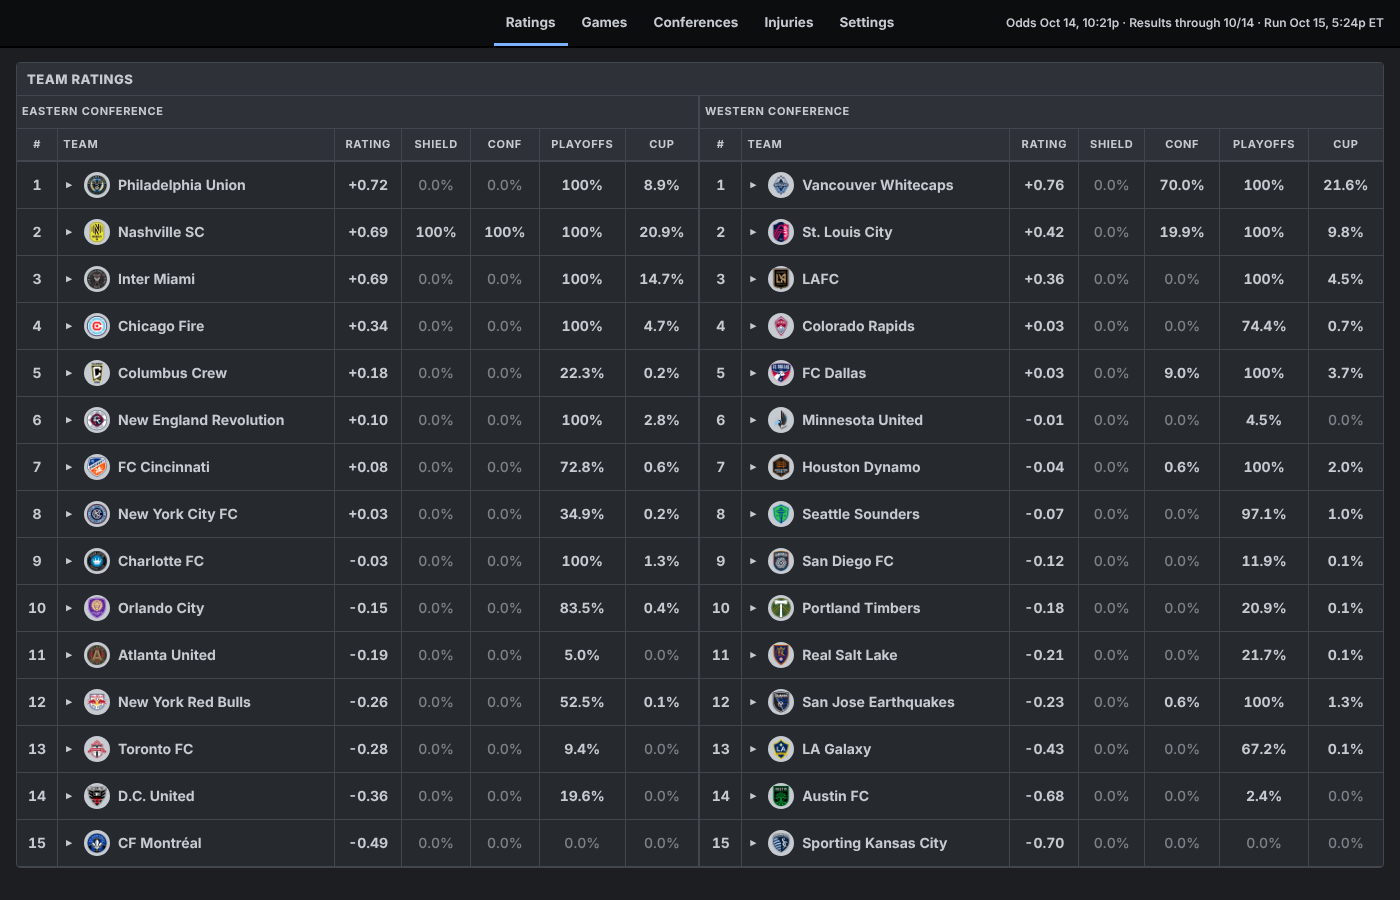
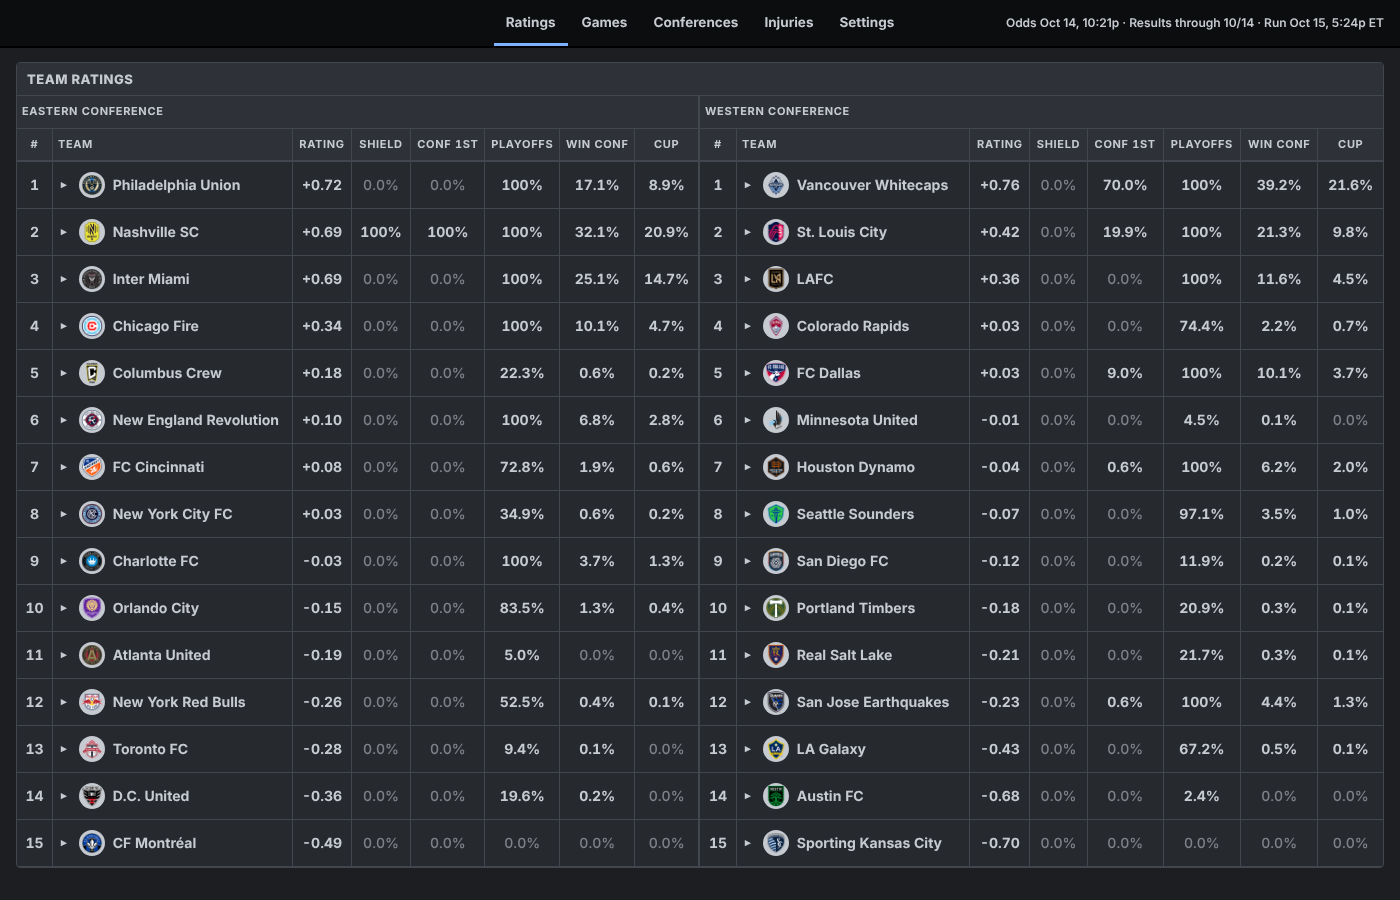
Ratings tab: Win conf column (conference champion) beside Conf 1st; republished (v14)

diff --git a/outputs/latest/site.html b/outputs/latest/site.html
@@ -235,12 +235,12 @@ function renderRatings(){
  const op=D.header.opta;
  $('#rtSub').textContent='';
  const tbl=(list,label)=>{const rows=[...list].sort((a,b)=>(preview?preview.ratings[b.team]:b.rating)-(preview?preview.ratings[a.team]:a.rating));
-  let h=`<thead><tr><th colspan="7" class="l">${label}</th></tr><tr><th>#</th><th class="l">Team</th><th title="strength in goals of expected margin v a league-average side, neutral pitch">Rating</th><th title="Supporters' Shield: most regular-season points, league-wide">Shield</th><th title="regular-season conference winner (top seed)">Conf</th><th title="top nine in the conference">Playoffs</th><th title="MLS Cup winner">Cup</th></tr></thead><tbody>`;
+  let h=`<thead><tr><th colspan="8" class="l">${label}</th></tr><tr><th>#</th><th class="l">Team</th><th title="strength in goals of expected margin v a league-average side, neutral pitch">Rating</th><th title="Supporters' Shield: most regular-season points, league-wide">Shield</th><th title="regular-season conference winner (top seed)">Conf 1st</th><th title="top nine in the conference">Playoffs</th><th title="conference champion: wins the conference bracket and reaches MLS Cup">Win conf</th><th title="MLS Cup winner">Cup</th></tr></thead><tbody>`;
   rows.forEach((t,k)=>{const r=preview?preview.ratings[t.team]:t.rating;const P=preview?preview.pools:null;
    const cell=(nm,key)=>{const base=pool(nm,t.team);const v=P?P[key][t.team]:base;return `<td class="num">${fmtPct(v)}${P?delta(v,base):''}</td>`};
-   h+=`<tr class="team-row"><td>${k+1}</td><td class="team"><span class="chev">▸</span> ${tm(t)}</td><td class="num">${sgn(r)}${preview?delta(r,t.rating,1,2):''}</td>${cell('shield','sh')}${cell(confPool(t),'cw')}${cell('playoffs','po')}${cell('cup','cup')}</tr>`;
+   h+=`<tr class="team-row"><td>${k+1}</td><td class="team"><span class="chev">▸</span> ${tm(t)}</td><td class="num">${sgn(r)}${preview?delta(r,t.rating,1,2):''}</td>${cell('shield','sh')}${cell(confPool(t),'cw')}${cell('playoffs','po')}${cell('cup_finalist','fin')}${cell('cup','cup')}</tr>`;
    const s=t.sources||{};
-   h+=`<tr class="detail" hidden><td colspan="7"><div class="det"><table class="mini"><thead><tr><th>Blend</th><th title="weighted least squares on Pinnacle's closing lines">Market</th><th title="ASA match xG, rescaled to the market's spread">xG</th><th title="Opta Power Rankings, rescaled; sanity anchor, never weighted">Opta</th><th title="blend minus Opta">Gap v Opta</th><th>Closes in fit</th><th title="this club's home edge on top of the league's">Home edge</th></tr></thead><tbody><tr><td>${sgn(t.rating)}</td><td>${s.market_recent==null?'–':sgn(s.market_recent)}</td><td>${s.xg==null?'–':sgn(s.xg)}</td><td>${t.opta==null?'–':sgn(t.opta)}</td><td>${t.opta==null?'–':sgn(t.rating-t.opta)}</td><td>${t.n_closes}</td><td>${t.home_delta==null?'–':sgn(t.home_delta)}</td></tr></tbody></table>${t.note?`<div class="note">${t.note}</div>`:''}</div></td></tr>`});
+   h+=`<tr class="detail" hidden><td colspan="8"><div class="det"><table class="mini"><thead><tr><th>Blend</th><th title="weighted least squares on Pinnacle's closing lines">Market</th><th title="ASA match xG, rescaled to the market's spread">xG</th><th title="Opta Power Rankings, rescaled; sanity anchor, never weighted">Opta</th><th title="blend minus Opta">Gap v Opta</th><th>Closes in fit</th><th title="this club's home edge on top of the league's">Home edge</th></tr></thead><tbody><tr><td>${sgn(t.rating)}</td><td>${s.market_recent==null?'–':sgn(s.market_recent)}</td><td>${s.xg==null?'–':sgn(s.xg)}</td><td>${t.opta==null?'–':sgn(t.opta)}</td><td>${t.opta==null?'–':sgn(t.rating-t.opta)}</td><td>${t.n_closes}</td><td>${t.home_delta==null?'–':sgn(t.home_delta)}</td></tr></tbody></table>${t.note?`<div class="note">${t.note}</div>`:''}</div></td></tr>`});
   return h+'</tbody>'};
  $('#ratingEast').innerHTML=tbl(east,'Eastern Conference');$('#ratingWest').innerHTML=tbl(west,'Western Conference');
  toggleDetail($('#ratingEast'));toggleDetail($('#ratingWest'))}

diff --git a/outputs/latest/site_local.html b/outputs/latest/site_local.html
@@ -235,12 +235,12 @@ function renderRatings(){
  const op=D.header.opta;
  $('#rtSub').textContent='';
  const tbl=(list,label)=>{const rows=[...list].sort((a,b)=>(preview?preview.ratings[b.team]:b.rating)-(preview?preview.ratings[a.team]:a.rating));
-  let h=`<thead><tr><th colspan="7" class="l">${label}</th></tr><tr><th>#</th><th class="l">Team</th><th title="strength in goals of expected margin v a league-average side, neutral pitch">Rating</th><th title="Supporters' Shield: most regular-season points, league-wide">Shield</th><th title="regular-season conference winner (top seed)">Conf</th><th title="top nine in the conference">Playoffs</th><th title="MLS Cup winner">Cup</th></tr></thead><tbody>`;
+  let h=`<thead><tr><th colspan="8" class="l">${label}</th></tr><tr><th>#</th><th class="l">Team</th><th title="strength in goals of expected margin v a league-average side, neutral pitch">Rating</th><th title="Supporters' Shield: most regular-season points, league-wide">Shield</th><th title="regular-season conference winner (top seed)">Conf 1st</th><th title="top nine in the conference">Playoffs</th><th title="conference champion: wins the conference bracket and reaches MLS Cup">Win conf</th><th title="MLS Cup winner">Cup</th></tr></thead><tbody>`;
   rows.forEach((t,k)=>{const r=preview?preview.ratings[t.team]:t.rating;const P=preview?preview.pools:null;
    const cell=(nm,key)=>{const base=pool(nm,t.team);const v=P?P[key][t.team]:base;return `<td class="num">${fmtPct(v)}${P?delta(v,base):''}</td>`};
-   h+=`<tr class="team-row"><td>${k+1}</td><td class="team"><span class="chev">▸</span> ${tm(t)}</td><td class="num">${sgn(r)}${preview?delta(r,t.rating,1,2):''}</td>${cell('shield','sh')}${cell(confPool(t),'cw')}${cell('playoffs','po')}${cell('cup','cup')}</tr>`;
+   h+=`<tr class="team-row"><td>${k+1}</td><td class="team"><span class="chev">▸</span> ${tm(t)}</td><td class="num">${sgn(r)}${preview?delta(r,t.rating,1,2):''}</td>${cell('shield','sh')}${cell(confPool(t),'cw')}${cell('playoffs','po')}${cell('cup_finalist','fin')}${cell('cup','cup')}</tr>`;
    const s=t.sources||{};
-   h+=`<tr class="detail" hidden><td colspan="7"><div class="det"><table class="mini"><thead><tr><th>Blend</th><th title="weighted least squares on Pinnacle's closing lines">Market</th><th title="ASA match xG, rescaled to the market's spread">xG</th><th title="Opta Power Rankings, rescaled; sanity anchor, never weighted">Opta</th><th title="blend minus Opta">Gap v Opta</th><th>Closes in fit</th><th title="this club's home edge on top of the league's">Home edge</th></tr></thead><tbody><tr><td>${sgn(t.rating)}</td><td>${s.market_recent==null?'–':sgn(s.market_recent)}</td><td>${s.xg==null?'–':sgn(s.xg)}</td><td>${t.opta==null?'–':sgn(t.opta)}</td><td>${t.opta==null?'–':sgn(t.rating-t.opta)}</td><td>${t.n_closes}</td><td>${t.home_delta==null?'–':sgn(t.home_delta)}</td></tr></tbody></table>${t.note?`<div class="note">${t.note}</div>`:''}</div></td></tr>`});
+   h+=`<tr class="detail" hidden><td colspan="8"><div class="det"><table class="mini"><thead><tr><th>Blend</th><th title="weighted least squares on Pinnacle's closing lines">Market</th><th title="ASA match xG, rescaled to the market's spread">xG</th><th title="Opta Power Rankings, rescaled; sanity anchor, never weighted">Opta</th><th title="blend minus Opta">Gap v Opta</th><th>Closes in fit</th><th title="this club's home edge on top of the league's">Home edge</th></tr></thead><tbody><tr><td>${sgn(t.rating)}</td><td>${s.market_recent==null?'–':sgn(s.market_recent)}</td><td>${s.xg==null?'–':sgn(s.xg)}</td><td>${t.opta==null?'–':sgn(t.opta)}</td><td>${t.opta==null?'–':sgn(t.rating-t.opta)}</td><td>${t.n_closes}</td><td>${t.home_delta==null?'–':sgn(t.home_delta)}</td></tr></tbody></table>${t.note?`<div class="note">${t.note}</div>`:''}</div></td></tr>`});
   return h+'</tbody>'};
  $('#ratingEast').innerHTML=tbl(east,'Eastern Conference');$('#ratingWest').innerHTML=tbl(west,'Western Conference');
  toggleDetail($('#ratingEast'));toggleDetail($('#ratingWest'))}

diff --git a/site/index.html b/site/index.html
@@ -235,12 +235,12 @@ function renderRatings(){
  const op=D.header.opta;
  $('#rtSub').textContent='';
  const tbl=(list,label)=>{const rows=[...list].sort((a,b)=>(preview?preview.ratings[b.team]:b.rating)-(preview?preview.ratings[a.team]:a.rating));
-  let h=`<thead><tr><th colspan="7" class="l">${label}</th></tr><tr><th>#</th><th class="l">Team</th><th title="strength in goals of expected margin v a league-average side, neutral pitch">Rating</th><th title="Supporters' Shield: most regular-season points, league-wide">Shield</th><th title="regular-season conference winner (top seed)">Conf</th><th title="top nine in the conference">Playoffs</th><th title="MLS Cup winner">Cup</th></tr></thead><tbody>`;
+  let h=`<thead><tr><th colspan="8" class="l">${label}</th></tr><tr><th>#</th><th class="l">Team</th><th title="strength in goals of expected margin v a league-average side, neutral pitch">Rating</th><th title="Supporters' Shield: most regular-season points, league-wide">Shield</th><th title="regular-season conference winner (top seed)">Conf 1st</th><th title="top nine in the conference">Playoffs</th><th title="conference champion: wins the conference bracket and reaches MLS Cup">Win conf</th><th title="MLS Cup winner">Cup</th></tr></thead><tbody>`;
   rows.forEach((t,k)=>{const r=preview?preview.ratings[t.team]:t.rating;const P=preview?preview.pools:null;
    const cell=(nm,key)=>{const base=pool(nm,t.team);const v=P?P[key][t.team]:base;return `<td class="num">${fmtPct(v)}${P?delta(v,base):''}</td>`};
-   h+=`<tr class="team-row"><td>${k+1}</td><td class="team"><span class="chev">▸</span> ${tm(t)}</td><td class="num">${sgn(r)}${preview?delta(r,t.rating,1,2):''}</td>${cell('shield','sh')}${cell(confPool(t),'cw')}${cell('playoffs','po')}${cell('cup','cup')}</tr>`;
+   h+=`<tr class="team-row"><td>${k+1}</td><td class="team"><span class="chev">▸</span> ${tm(t)}</td><td class="num">${sgn(r)}${preview?delta(r,t.rating,1,2):''}</td>${cell('shield','sh')}${cell(confPool(t),'cw')}${cell('playoffs','po')}${cell('cup_finalist','fin')}${cell('cup','cup')}</tr>`;
    const s=t.sources||{};
-   h+=`<tr class="detail" hidden><td colspan="7"><div class="det"><table class="mini"><thead><tr><th>Blend</th><th title="weighted least squares on Pinnacle's closing lines">Market</th><th title="ASA match xG, rescaled to the market's spread">xG</th><th title="Opta Power Rankings, rescaled; sanity anchor, never weighted">Opta</th><th title="blend minus Opta">Gap v Opta</th><th>Closes in fit</th><th title="this club's home edge on top of the league's">Home edge</th></tr></thead><tbody><tr><td>${sgn(t.rating)}</td><td>${s.market_recent==null?'–':sgn(s.market_recent)}</td><td>${s.xg==null?'–':sgn(s.xg)}</td><td>${t.opta==null?'–':sgn(t.opta)}</td><td>${t.opta==null?'–':sgn(t.rating-t.opta)}</td><td>${t.n_closes}</td><td>${t.home_delta==null?'–':sgn(t.home_delta)}</td></tr></tbody></table>${t.note?`<div class="note">${t.note}</div>`:''}</div></td></tr>`});
+   h+=`<tr class="detail" hidden><td colspan="8"><div class="det"><table class="mini"><thead><tr><th>Blend</th><th title="weighted least squares on Pinnacle's closing lines">Market</th><th title="ASA match xG, rescaled to the market's spread">xG</th><th title="Opta Power Rankings, rescaled; sanity anchor, never weighted">Opta</th><th title="blend minus Opta">Gap v Opta</th><th>Closes in fit</th><th title="this club's home edge on top of the league's">Home edge</th></tr></thead><tbody><tr><td>${sgn(t.rating)}</td><td>${s.market_recent==null?'–':sgn(s.market_recent)}</td><td>${s.xg==null?'–':sgn(s.xg)}</td><td>${t.opta==null?'–':sgn(t.opta)}</td><td>${t.opta==null?'–':sgn(t.rating-t.opta)}</td><td>${t.n_closes}</td><td>${t.home_delta==null?'–':sgn(t.home_delta)}</td></tr></tbody></table>${t.note?`<div class="note">${t.note}</div>`:''}</div></td></tr>`});
   return h+'</tbody>'};
  $('#ratingEast').innerHTML=tbl(east,'Eastern Conference');$('#ratingWest').innerHTML=tbl(west,'Western Conference');
  toggleDetail($('#ratingEast'));toggleDetail($('#ratingWest'))}

diff --git a/CLAUDE.md b/CLAUDE.md
@@ -229,7 +229,7 @@ Page changes 2026-10-15 night (Zac): **Scenarios tab removed** (and the embedded
 **crests embedded** as 96 px data URIs from `data/logos/<code>.png` (fetched once from the ESPN URLs in `data/logos.csv`; the
 published page cannot rely on external images, which is why letters showed); the Games detail row shows **EV% at Pinnacle's
 price** per outcome (model probability x Pinnacle decimal price - 1); the Ratings header line (run date, Opta anchor) removed;
-the Shaded/Raw toggle is hidden while no shade is applied. `check_site.py` no longer checks a Scenarios tab.
+the Shaded/Raw toggle is hidden while no shade is applied; the Ratings tab shows Conf 1st (top seed) and Win conf (conference champion, the Cup finalist pool) beside Shield, Playoffs and Cup. `check_site.py` no longer checks a Scenarios tab.
 `scripts/site_data.py` -> `outputs/latest/site_data.json`; `scripts/build_site.py` -> `outputs/latest/site.html`;
 `scripts/check_site.py` (Playwright, bundled Chromium: every tab, console errors, Games-table fit at 1100-1920 px, a worker
 run, the Scenarios run-row check) before publishing. Save buttons write `settings/pending` and `settings/pending.scenario`
